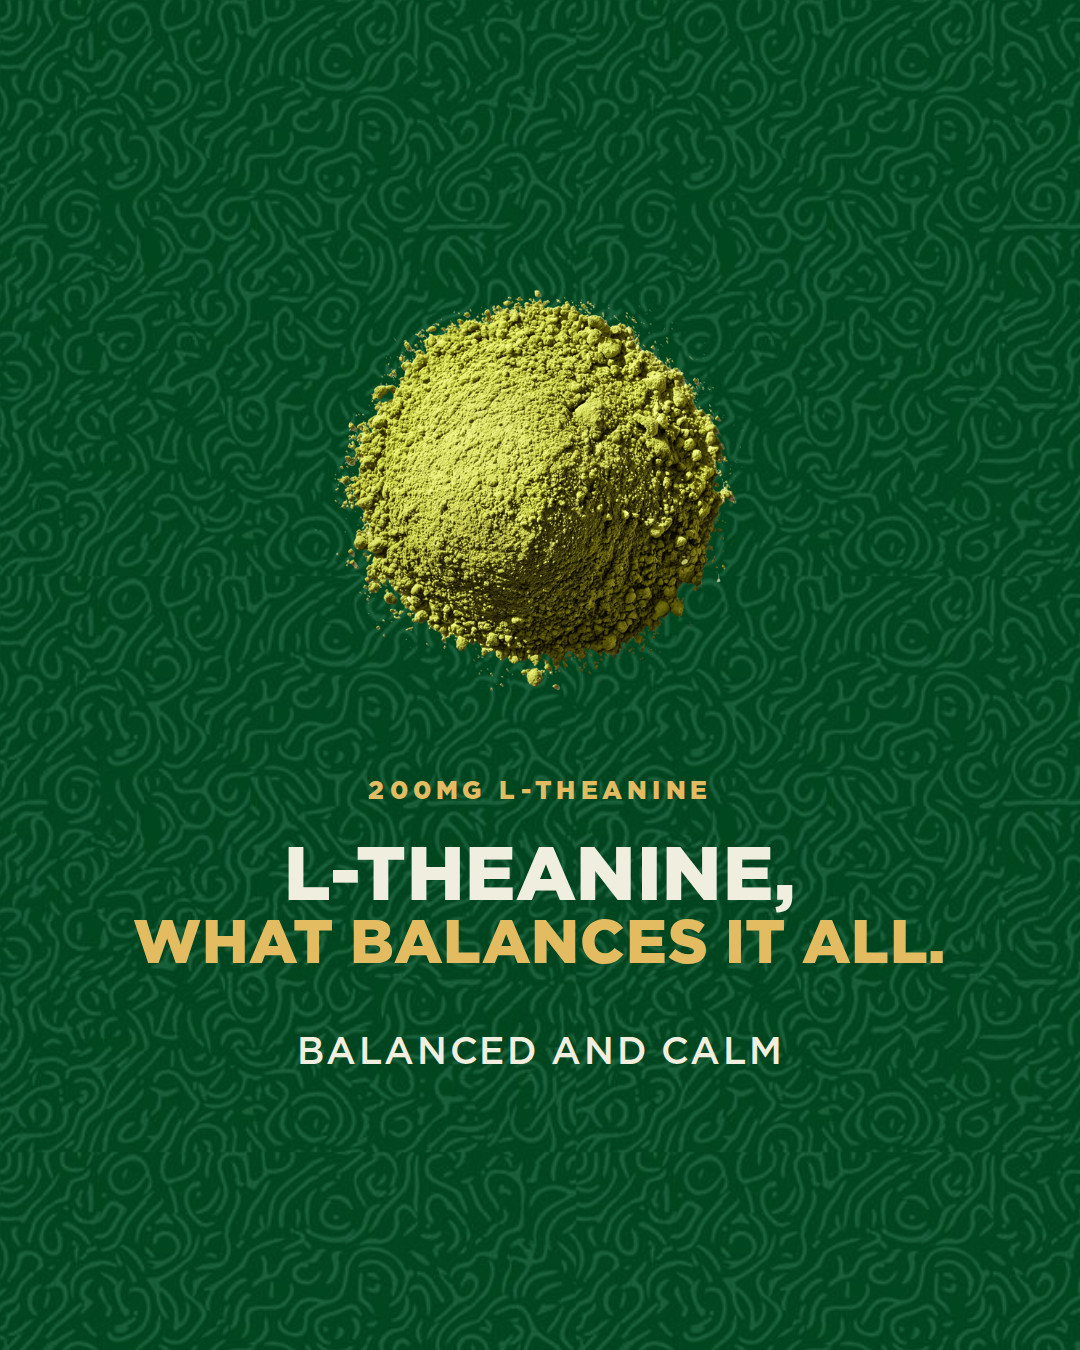
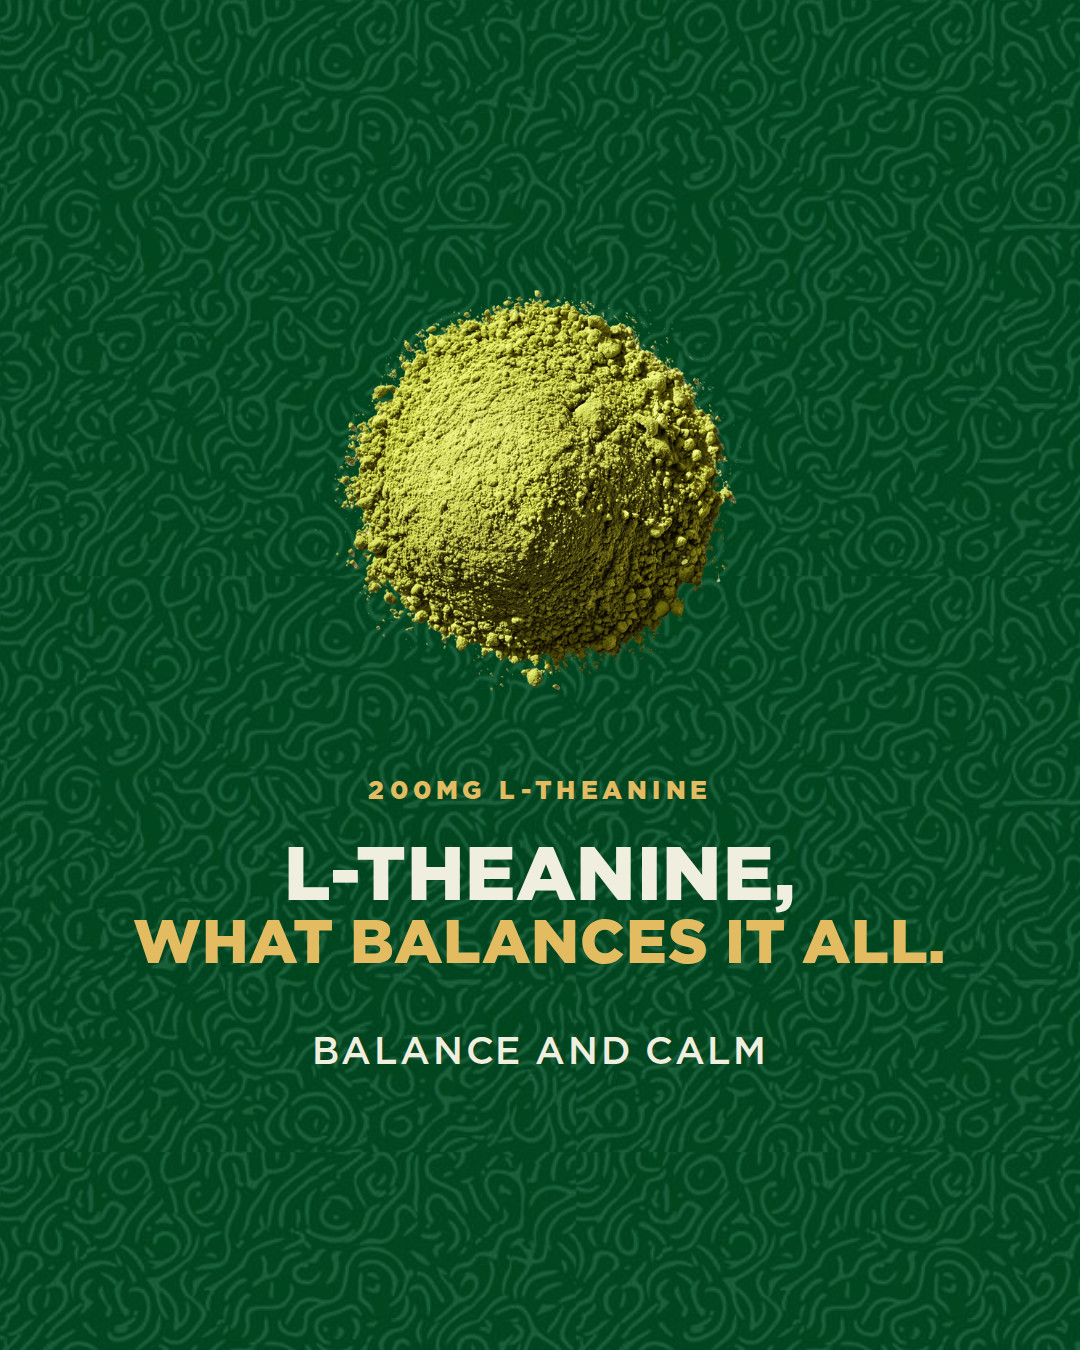
carousel: three-ingredients, "Balance and calm"
The L-Theanine slide's phrase loses its participle.

Claude-Session: https://claude.ai/code/session_01NhEtXPnfeCJfN73SqBkUZ5

Changed region(s): [[0.275, 0.7467, 0.7333, 0.8089]]

diff --git a/email-ds/emails/carousel/three-ingredients.jsx b/email-ds/emails/carousel/three-ingredients.jsx
@@ -88,10 +88,10 @@ function CarouselThreeIngredients() {
       // margins. 34 is the size at which it fits, and it is the only line in
       // the set that is measured rather than chosen.
       '200mg L-Theanine', 'L-Theanine,', 'what balances it all.',
-      // One phrase, not two: "Balanced and calm" and "Balances the whole
+      // One phrase, not two: "Balance and calm" and "Balances the whole
       // experience" were the same claim said twice, and the repeat of the
       // word was the first thing the eye caught.
-      ['Balanced and calm'], 34),
+      ['Balance and calm'], 34),
 
     // 5 · THE ASK. This was the weakest slide in the set — a closing frame
     // carrying nothing but type, on a carousel whose whole argument is what
